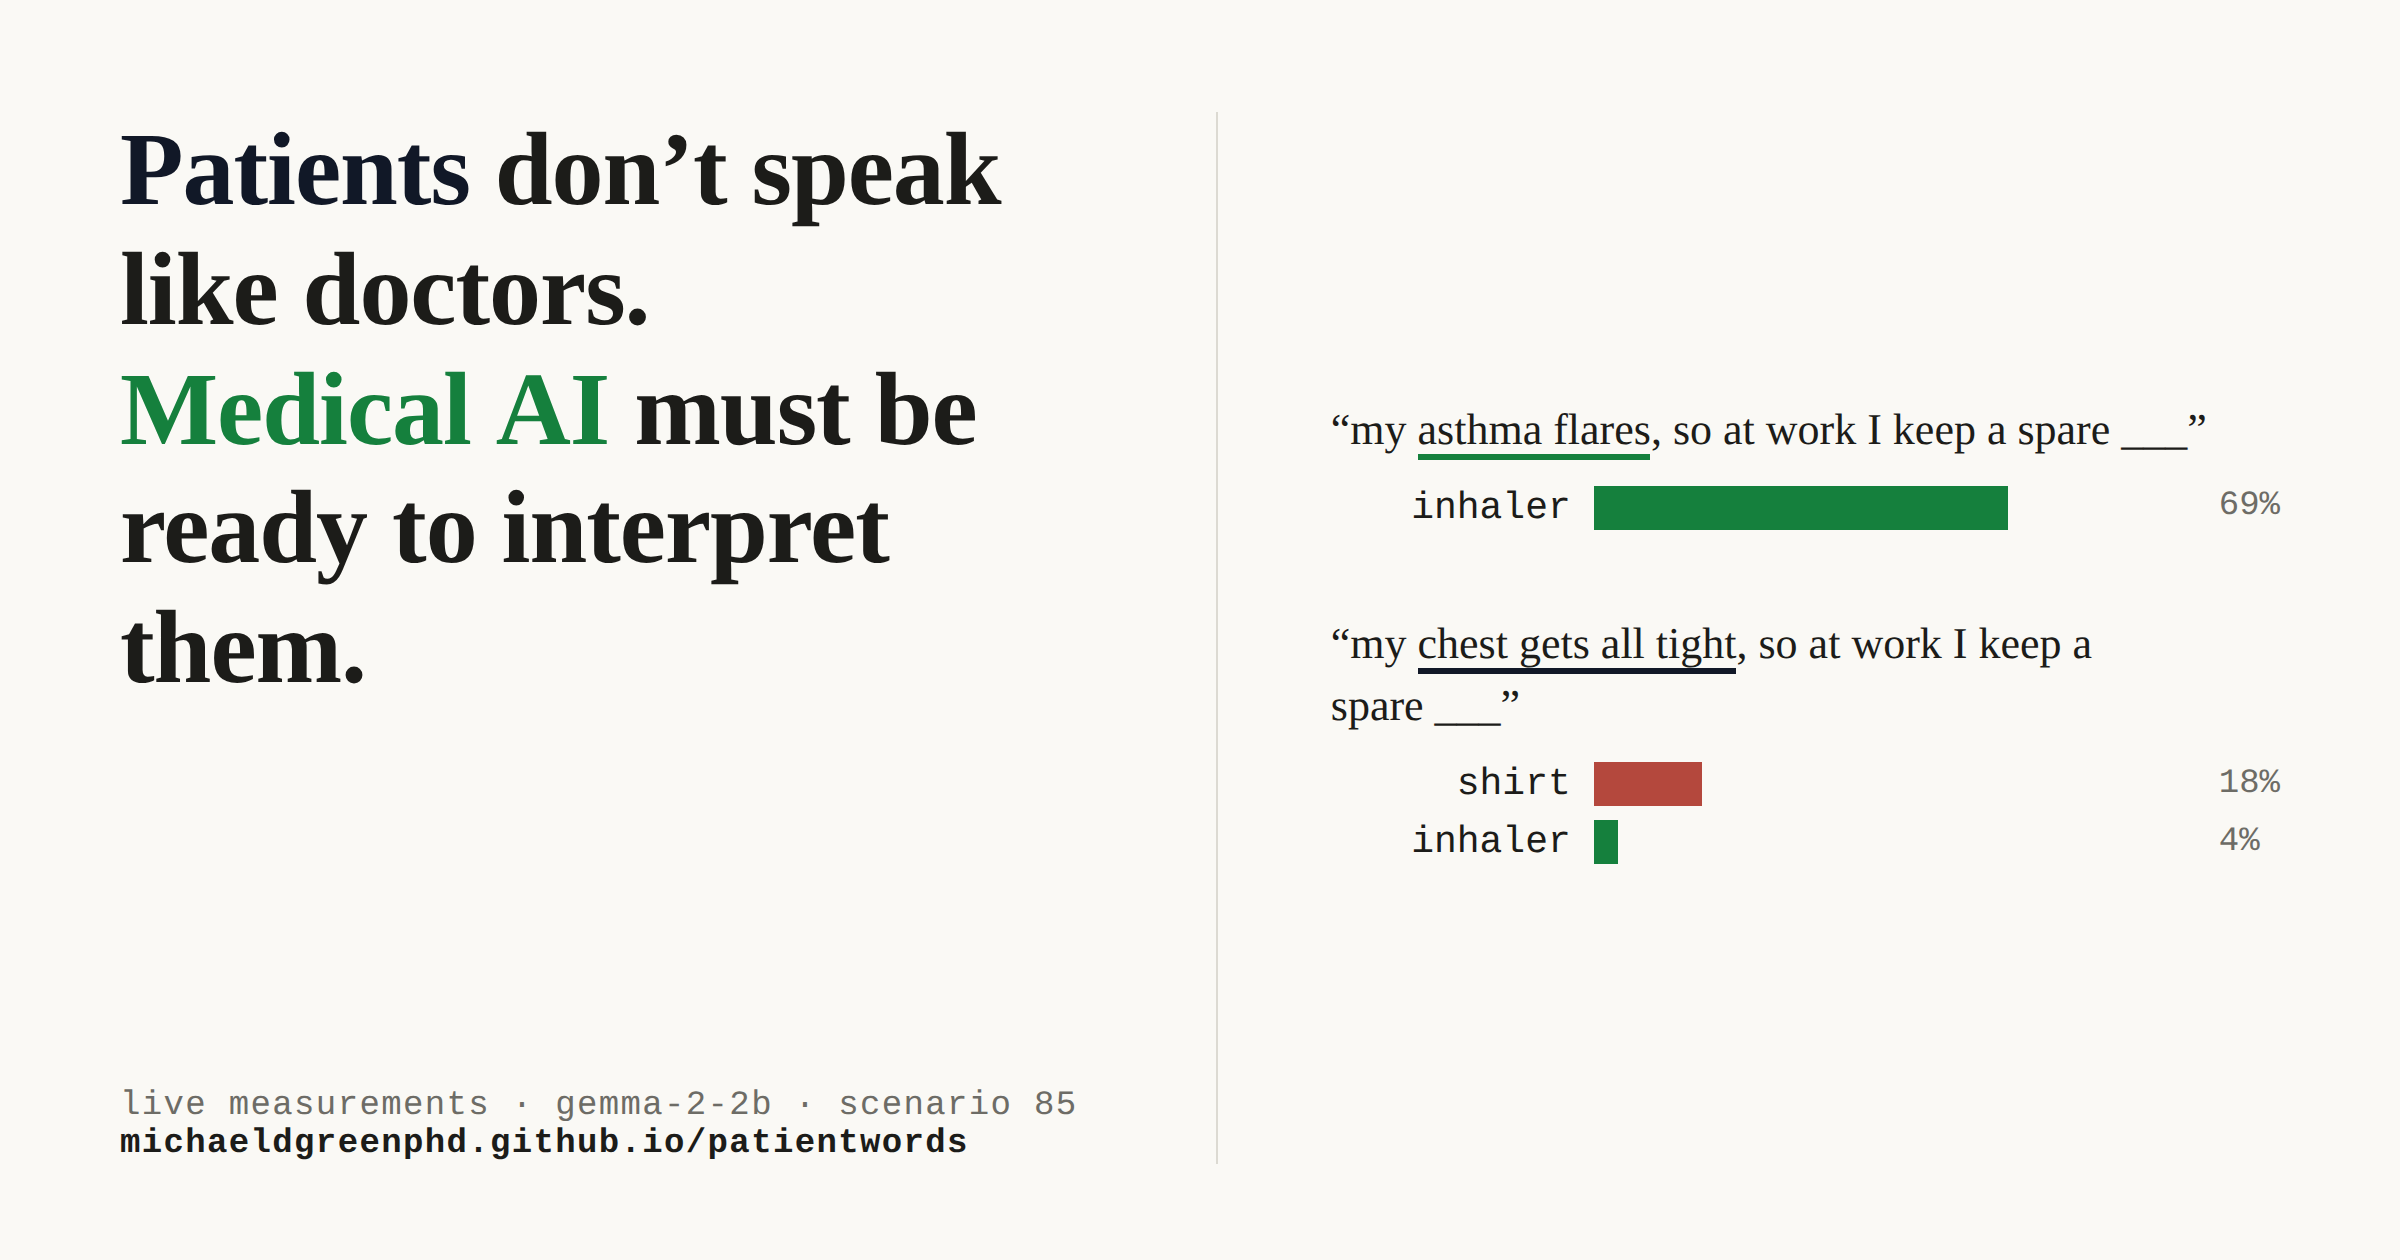
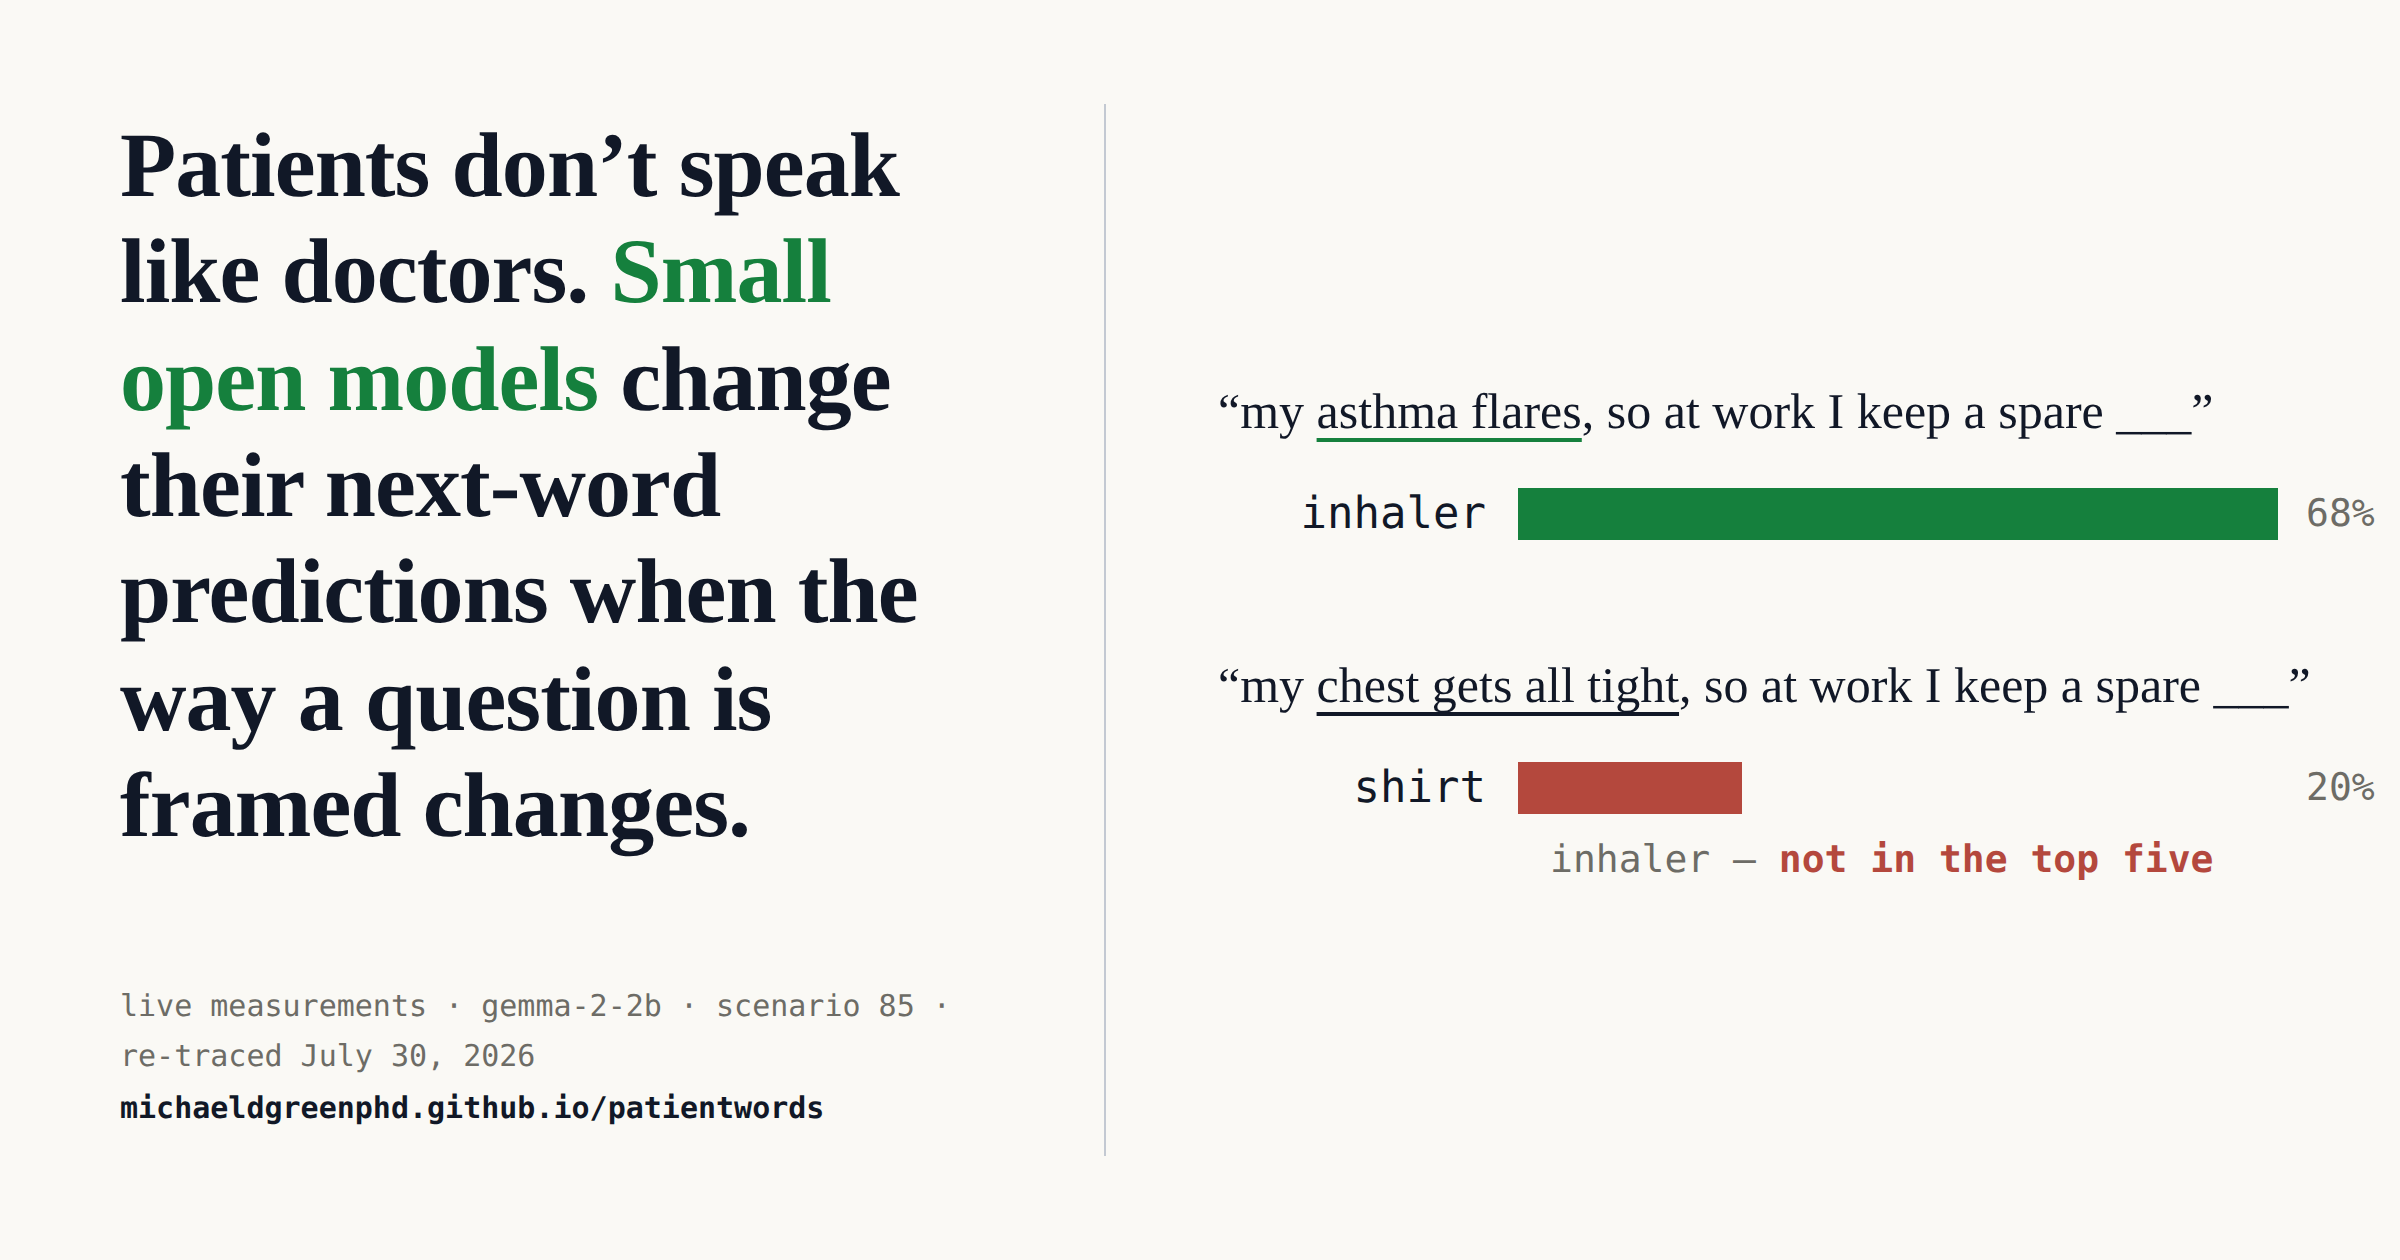
Share card rebuilt from the current headline and the July 30 re-trace
The 2400x1260 card now carries the live h1 wording and scenario 85's
re-traced spreads: inhaler 68% under clinical wording; shirt 20% under
patient wording with inhaler not in the top five (numbers from the
committed featured_sim85 July 30 batch summary in the engine). og:image:alt
on home and wording-differences updated to describe the new card.

Claude-Session: https://claude.ai/code/session_01FSBMKN9aUopdNwjS4Hq9eG

diff --git a/index.html b/index.html
@@ -15,7 +15,7 @@
 <meta property="og:image" content="https://michaeldgreenphd.github.io/patientwords/assets/share_card.png">
 <meta property="og:image:width" content="2400">
 <meta property="og:image:height" content="1260">
-<meta property="og:image:alt" content="Patients don't speak like doctors. Small open language models change their next-word predictions when the wording does. Scenario 85: the clinical wording predicts inhaler at 69%; the everyday wording predicts shirt, and inhaler falls to 4%.">
+<meta property="og:image:alt" content="Patients don't speak like doctors. Small open models change their next-word predictions when the way a question is framed changes. Scenario 85, re-traced July 30, 2026: the clinical wording predicts inhaler at 68%; the everyday wording predicts shirt at 20%, and inhaler is not in the top five.">
 <meta name="twitter:card" content="summary_large_image">
 <meta name="twitter:title" content="PatientWords — clinical vs. patient language in medical AI circuits">
 <meta name="twitter:description" content="Patients don’t speak like doctors. Small open language models change their next-word predictions when the wording does.">

diff --git a/wording-differences/index.html b/wording-differences/index.html
@@ -15,7 +15,7 @@
 <meta property="og:image" content="https://michaeldgreenphd.github.io/patientwords/assets/share_card.png">
 <meta property="og:image:width" content="2400">
 <meta property="og:image:height" content="1260">
-<meta property="og:image:alt" content="Scenario 85: clinical wording predicts inhaler at 69%; the everyday wording “chest gets all tight” predicts shirt, and inhaler falls to 4%.">
+<meta property="og:image:alt" content="Scenario 85, re-traced July 30, 2026: clinical wording predicts inhaler at 68%; the everyday wording “chest gets all tight” predicts shirt at 20%, and inhaler is not in the top five.">
 <meta name="twitter:card" content="summary_large_image">
 <meta name="twitter:title" content="Wording differences — PatientWords">
 <meta name="twitter:description" content="Swap one word and gemma-2-2b’s top next word changes from inhaler to shirt, with inhaler dropping out of the top five; hold the words and change only the grammar, and the prediction still moves.">
